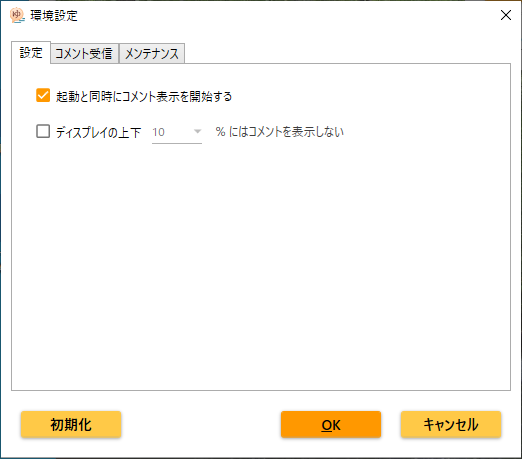
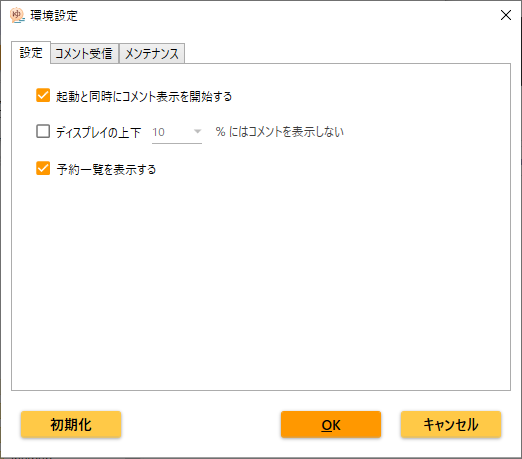
Ver 1.82 時点

diff --git a/YukkoView2/Views/CustomControls/CommentControl.cs b/YukkoView2/Views/CustomControls/CommentControl.cs
@@ -179,6 +179,9 @@ namespace YukkoView2.Views.CustomControls
 		// 予約一覧の最大描画時間 [ms]
 		private const Int32 DRAW_REQUEST_LIST_DURATION = 15 * 1000;
 
+		// 予約が無い場合の予約一覧の最大描画時間の追加分 [ms]
+		private const Int32 DRAW_REQUEST_LIST_EXTEND_DURATION = 15 * 1000;
+
 		// 予約一覧のフォントサイズ
 		private const Int32 REQUEST_LIST_FONT_SIZE = 4;
 
@@ -758,7 +761,7 @@ namespace YukkoView2.Views.CustomControls
 			offScreenContext.Close();
 			_requestListOffScreen.Render(offScreenVisual);
 			_requestListOffScreen.Freeze();
-			SetDrawRequestList();
+			SetDrawRequestList(requestList.Any());
 		}
 
 		// --------------------------------------------------------------------
@@ -782,10 +785,10 @@ namespace YukkoView2.Views.CustomControls
 		// --------------------------------------------------------------------
 		// 予約一覧を描画するようにする
 		// --------------------------------------------------------------------
-		private void SetDrawRequestList()
+		private void SetDrawRequestList(Boolean requestExists)
 		{
 			_drawRequestList = true;
-			_clearRequestListTick = Environment.TickCount + DRAW_REQUEST_LIST_DURATION;
+			_clearRequestListTick = Environment.TickCount + DRAW_REQUEST_LIST_DURATION + (requestExists ? 0 : DRAW_REQUEST_LIST_EXTEND_DURATION);
 		}
 
 		// --------------------------------------------------------------------
